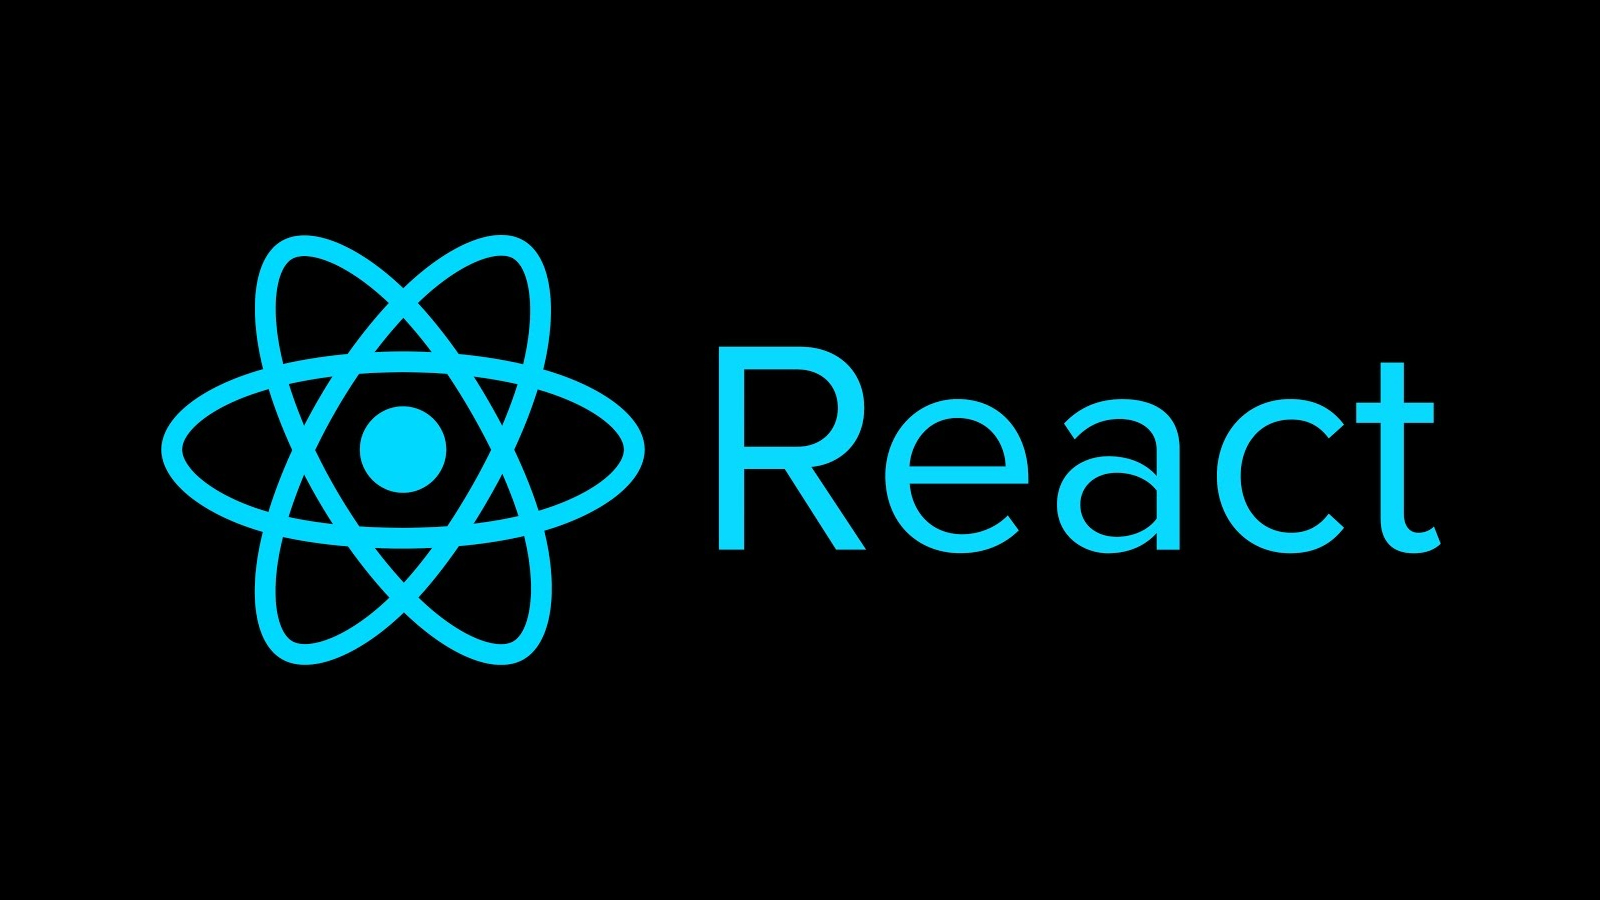
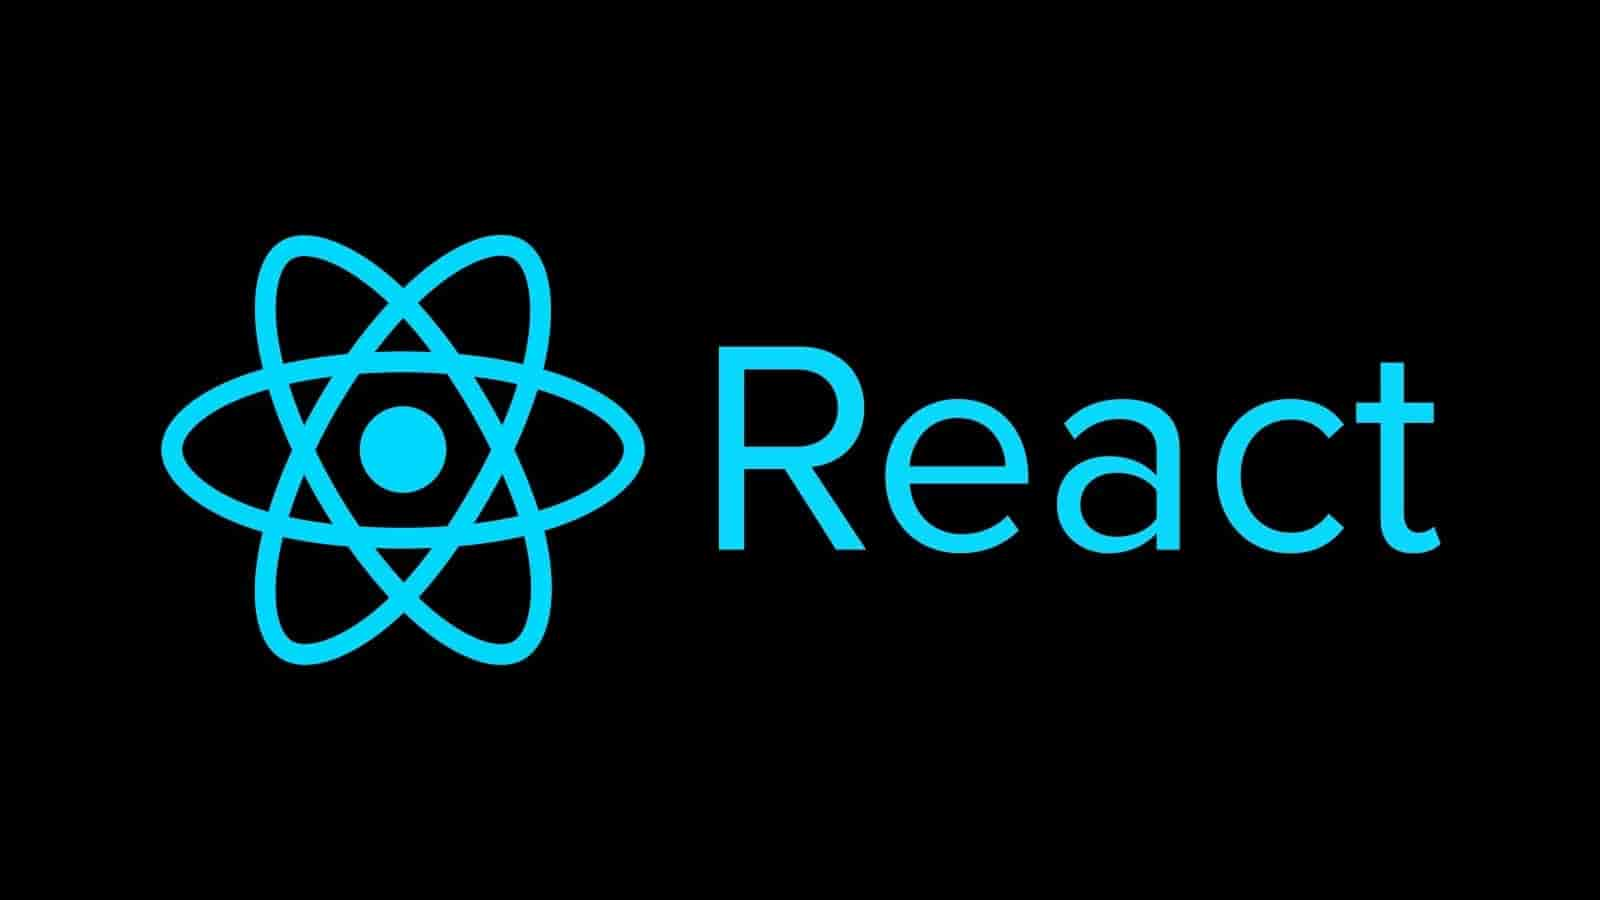
optimising images, adding splash screen

diff --git a/src/components/Header.js b/src/components/Header.js
@@ -5,8 +5,6 @@ import styled from 'styled-components';
 
 import Links from './Navigation/Links';
 import Navigation from './Navigation/index';
-import logo from '../resources/images/logo.png';
-import logoIcon from '../resources/images/logo-icon.png';
 import Logo from './Logo';
 import Footer from './Footer';
 
@@ -150,7 +148,7 @@ class Header extends React.Component {
             return (
               <React.Fragment>
                 <LogoContainer>
-                  <Link to={'/'}>
+                  <Link to={'/'} aria-label="homepage">
                     <Logo height="109px" width="279px" viewBox="0 0 573 286" />
                   </Link>
                 </LogoContainer>
@@ -166,7 +164,7 @@ class Header extends React.Component {
             return (
               <React.Fragment>
                 <LogoContainer>
-                  <Link to={'/'}>
+                  <Link to={'/'} aria-label="homepage">
                     <Logo
                       device="mobile"
                       height="69px"

diff --git a/src/components/Seo.js b/src/components/Seo.js
@@ -5,6 +5,7 @@ import { StaticQuery, graphql } from 'gatsby';
 import icon32 from '../../static/icons/favicon-32x32.png';
 import icon16 from '../../static/icons/favicon-16x16.png';
 import icon192 from '../../static/icons/favicon-192x192.png';
+import icon512 from '../../static/icons/favicon-512x512.png';
 
 const query = graphql`
   query {
@@ -113,6 +114,12 @@ const Seo = ({ meta, image, title, description, pathSlug }) => {
                 type: 'image/png',
                 href: icon192,
                 sizes: '192x192',
+              },
+              {
+                rel: 'icon',
+                type: 'image/png',
+                href: icon512,
+                sizes: '512x512',
               },
             ]}
           />

diff --git a/src/components/Portfolio.js b/src/components/Portfolio.js
@@ -45,7 +45,7 @@ export const Portfolio = ({ title, path, image }) => {
   return (
     <PortfolioItem key={path}>
       <Link to={path}>
-        <PortfolioImg src={imgUrl} />
+        <PortfolioImg src={imgUrl} alt={title} />
         <PortfolioTitle>{title}</PortfolioTitle>
       </Link>
     </PortfolioItem>

diff --git a/gatsby-config.js b/gatsby-config.js
@@ -76,6 +76,11 @@ module.exports = {
             sizes: '192x192',
             type: 'image/png',
           },
+          {
+            src: '/icons/favicon-512x512.png',
+            sizes: '512x512',
+            type: 'image/png',
+          },
         ],
       },
     },

diff --git a/content/portfolio/malikgabroun/index.md b/content/portfolio/malikgabroun/index.md
@@ -3,10 +3,10 @@ type: 'portfolio'
 title: 'MalikGabroun.com'
 date: '14/10/2018'
 path: '/portfolio/malikgabroun/'
-images: 'images/thumbnails/portfolio/personal-website.png'
+images: 'images/thumbnails/portfolio/personal-website.jpg'
 ---
 
-![malikgabroun.com](./personal-website.png)
+![malikgabroun.com](./personal-website.jpg)
 
 <div class="content">
 <h1> MalikGabroun.com</h1>

diff --git a/content/portfolio/github-battle/index.md b/content/portfolio/github-battle/index.md
@@ -3,10 +3,10 @@ type: 'portfolio'
 title: 'Github Battle'
 date: '14/10/2018'
 path: '/portfolio/github-battle/'
-images: 'images/thumbnails/portfolio/github-battle.png'
+images: 'images/thumbnails/portfolio/github-battle.jpg'
 ---
 
-![github-battle](./github-battle.png)
+![github-battle](./github-battle.jpg)
 
 <div class="content">
 <h1> Github Battle </h1>
